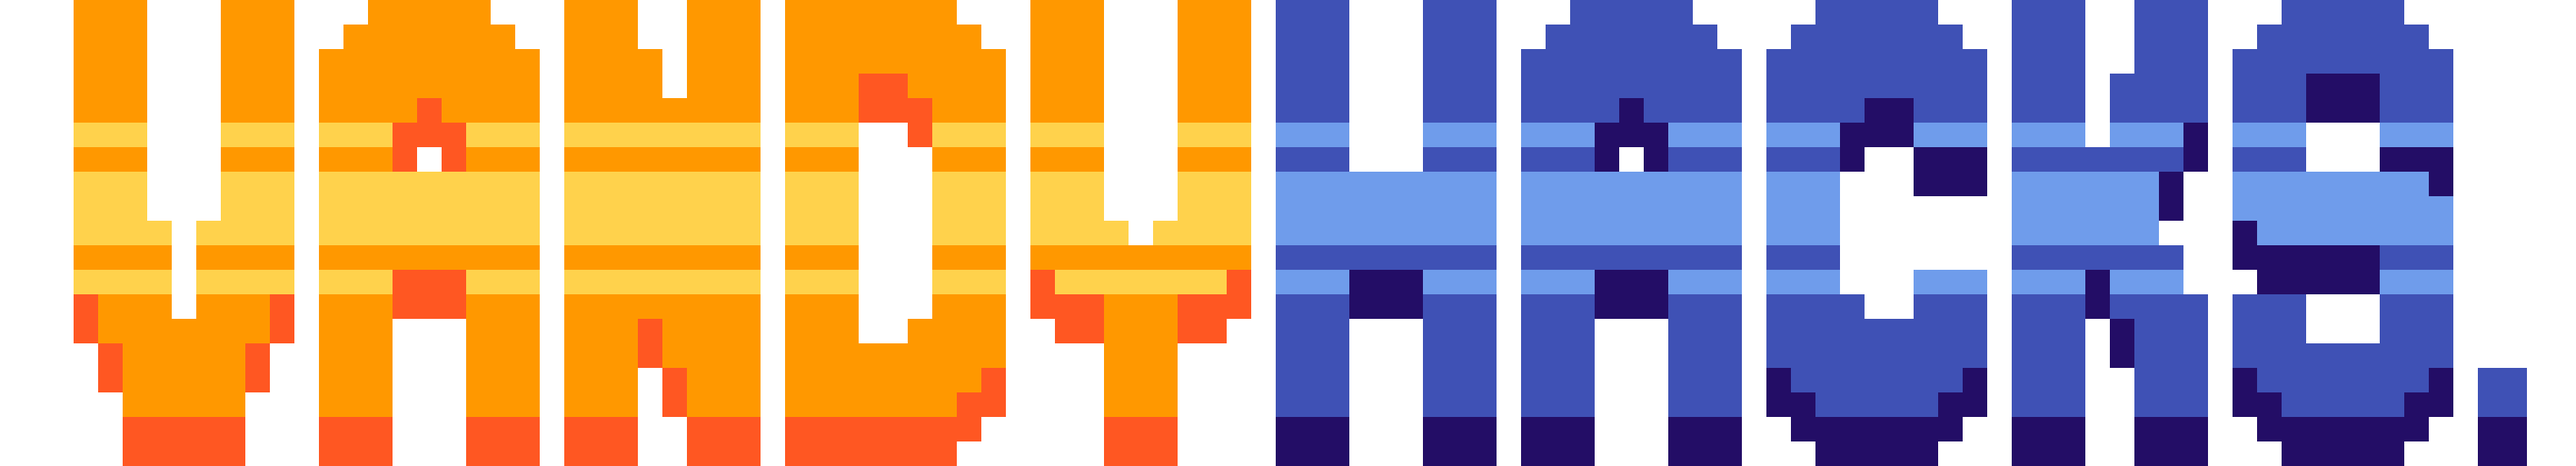
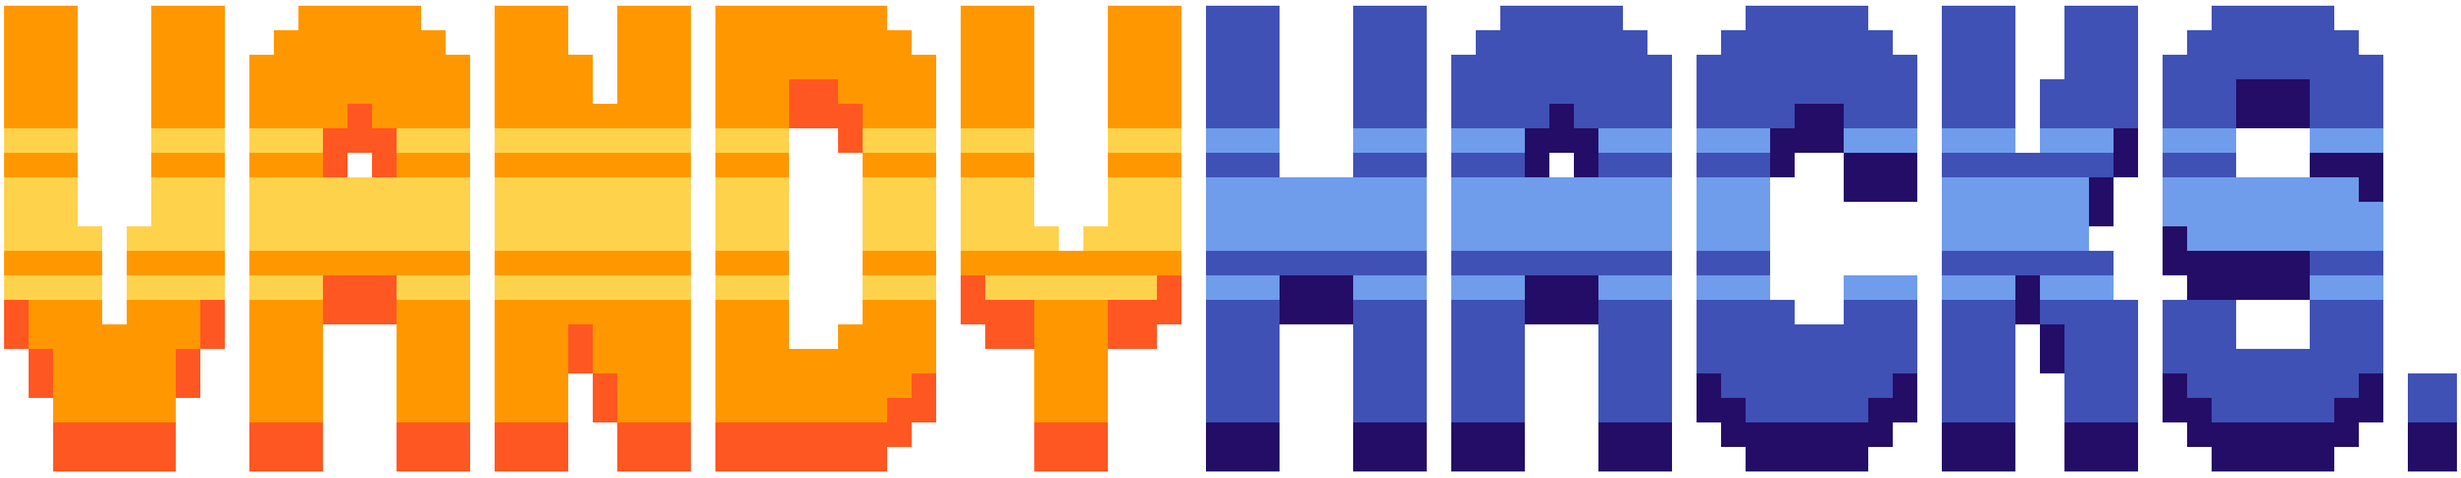
Simplified title, now has assets, also fixed color of about

diff --git a/src/components/title/title.tsx b/src/components/title/title.tsx
@@ -1,29 +1,36 @@
 import React from 'react';
+import Banner from '../../assets/retroedn-used.png';
+import Maintitle from '../../assets/vandygoldhacks.png'
+import Subtitle from '../../assets/thehackathon.png'
 import * as styles from './title.module.css'
 
 const Title: React.FC<{}> = () => (
-    <div className={styles.title}>
-        <Banner />
+    <div id={styles.title}>
+        <img src={Banner} className={styles.titleItem}></img>
+        <img src={Maintitle} className={styles.titleItem}></img>
+        <img src={Subtitle} className={styles.titleItem}></img>
+        {/* <Banner />
         <Maintitle />
-        <Subtitle />
+        <Subtitle /> */}
     </div>
 )
 
-const Banner: React.FC<{}> = () => (
-    <div className={styles.banner}>
-        <h2>{' '}retro edn.</h2>
-    </div>
-)
-const Maintitle: React.FC<{}> = () => (
-    <div className={styles.maintitle}>
-        <h1>VandyHacks</h1>
-    </div>
-)
+// const Banner: React.FC<{}> = () => (
+//     // <div className={styles.banner}>
+//     //     <h2>{' '}retro edn.</h2>
+//     // </div>
+//     <img src={RetroEdn}></img>
+// )
+// const Maintitle: React.FC<{}> = () => (
+//     <div className={styles.maintitle}>
+//         <h1>VandyHacks</h1>
+//     </div>
+// )
 
-const Subtitle: React.FC<{}> = () => (
-    <div className={styles.subtitle}>
-        <h2>The Hackathon</h2>
-    </div>
-)
+// const Subtitle: React.FC<{}> = () => (
+//     <div className={styles.subtitle}>
+//         <h2>The Hackathon</h2>
+//     </div>
+// )
 
 export default Title

diff --git a/src/components/title/title.module.css b/src/components/title/title.module.css
@@ -1,56 +1,11 @@
-/* TODO: idk why it's all the way to the side >:( */
-
-@font-face {
-    font-family: 'hellovetica';
-    src: URL('fonts/hellovetica.ttf') format('truetype');
+.titleItem {
+    width: 100%;
+    display: block;
+    margin-bottom: 10px;
 }
 
-.banner {
-    display: flex;
-    align-content: space-around;
-    background-color: #4257ba;
-    box-shadow: 0px 10px #180166;
-    margin-bottom: 50px;
-}
-
-.banner h2 {
-    color: white;
-    letter-spacing: 32px;
-    font-family: ARCADE_N;
+#title {
+    max-width: 500px;
+    margin: 0 auto;
     overflow: hidden;
-    white-space: pre;
-    margin: 0 auto;
-    animation: typing 1s steps(12, end);
-}
-
-
-/* TODO: make this come out from side, not center */
-
-@keyframes typing {
-    from {
-        width: 0
-    }
-    to {
-        width: 100%
-    }
-}
-
-.maintitle h1 {
-    font-size: 60px;
-    font-family: ARCADE_N;
-    color: #fe9a00;
-}
-
-.subtitle h2 {
-    color: #3a4fb7;
-    font-family: ARCADE_N;
-}
-
-.title {
-    display: flex;
-    flex-direction: column;
-    justify-content: space-between;
-    align-items: center;
-    width: 45vw;
-    margin: 0 auto;
 }

diff --git a/src/components/title/title.module.css.d.ts b/src/components/title/title.module.css.d.ts
@@ -1,5 +1,2 @@
-export const banner: string;
-export const typing: string;
-export const maintitle: string;
-export const subtitle: string;
+export const titleItem: string;
 export const title: string;

diff --git a/src/components/about/about.module.css b/src/components/about/about.module.css
@@ -2,6 +2,7 @@
     display: flex;
     flex-flow: column nowrap;
     overflow: hidden;
+    background-color: #060606;
     margin-left: 100px;
     margin-right: 100px;
     margin-top: 50px;
